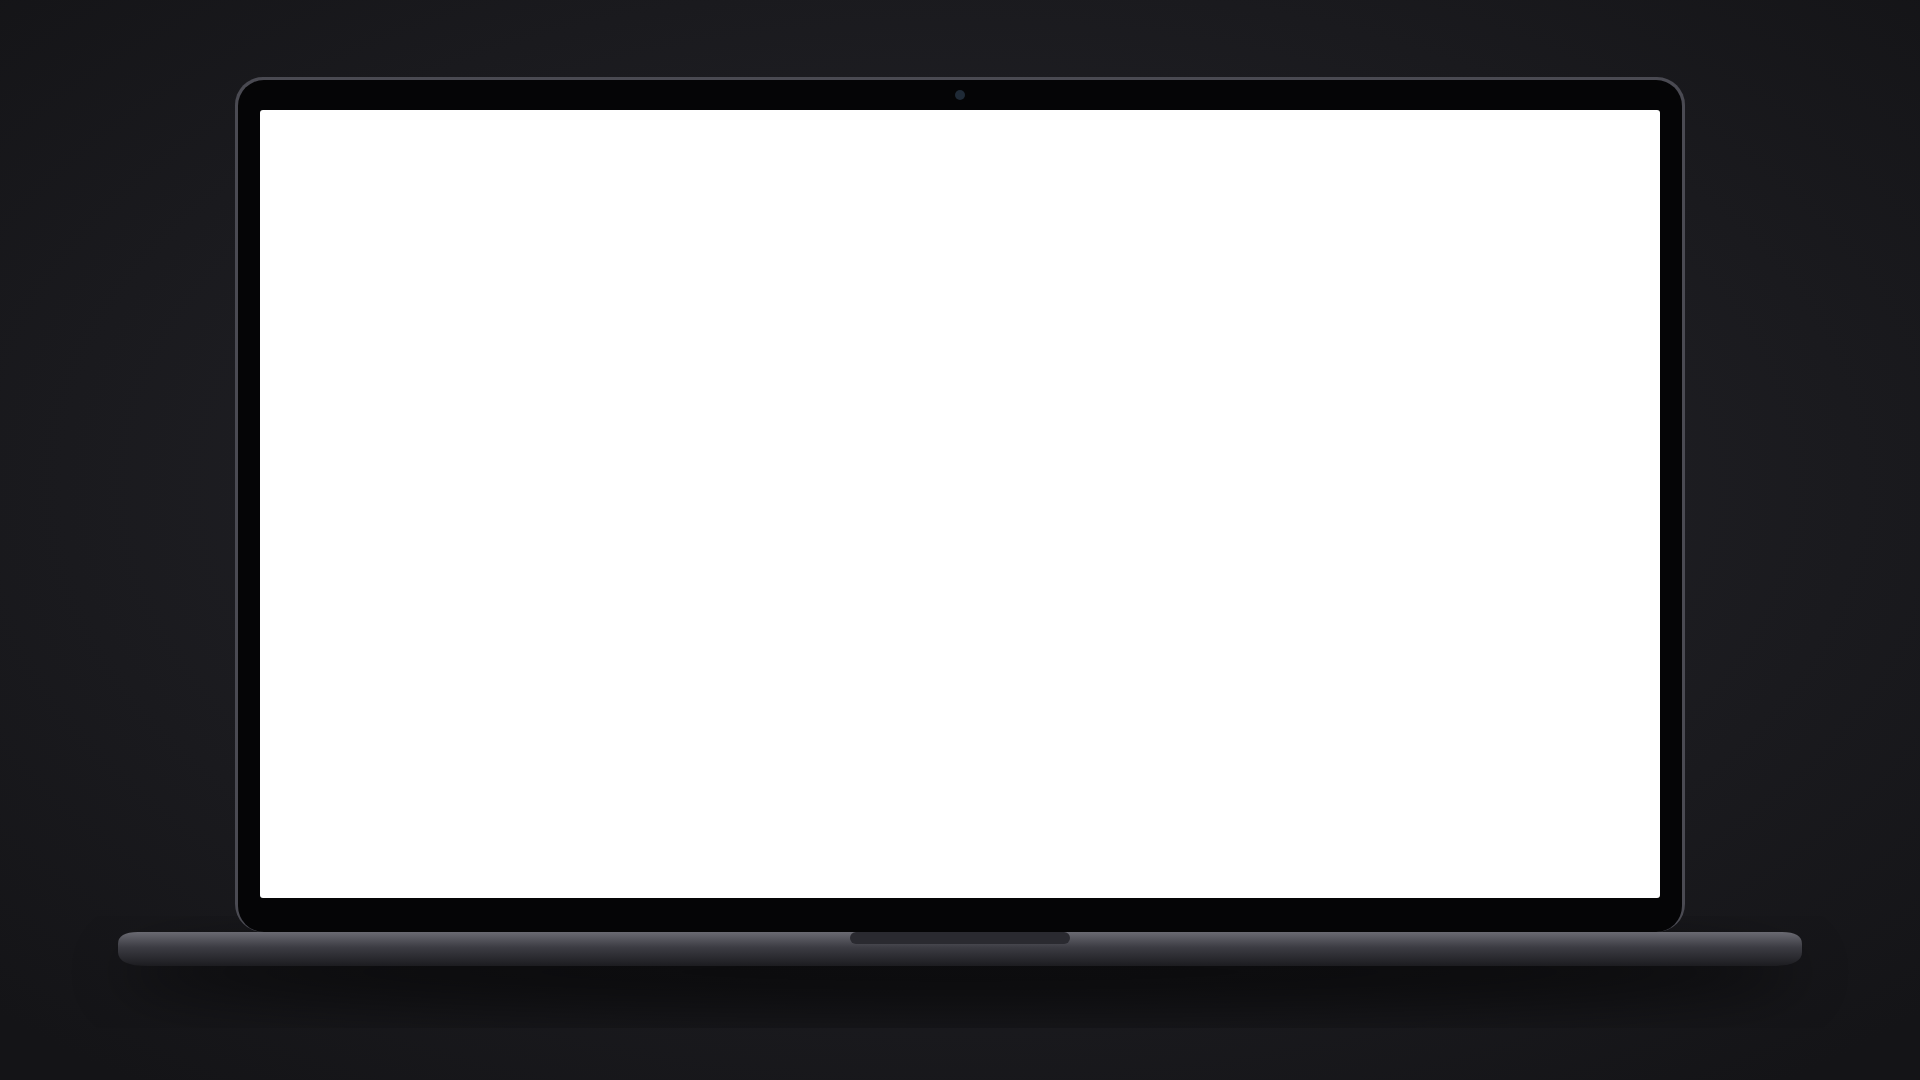
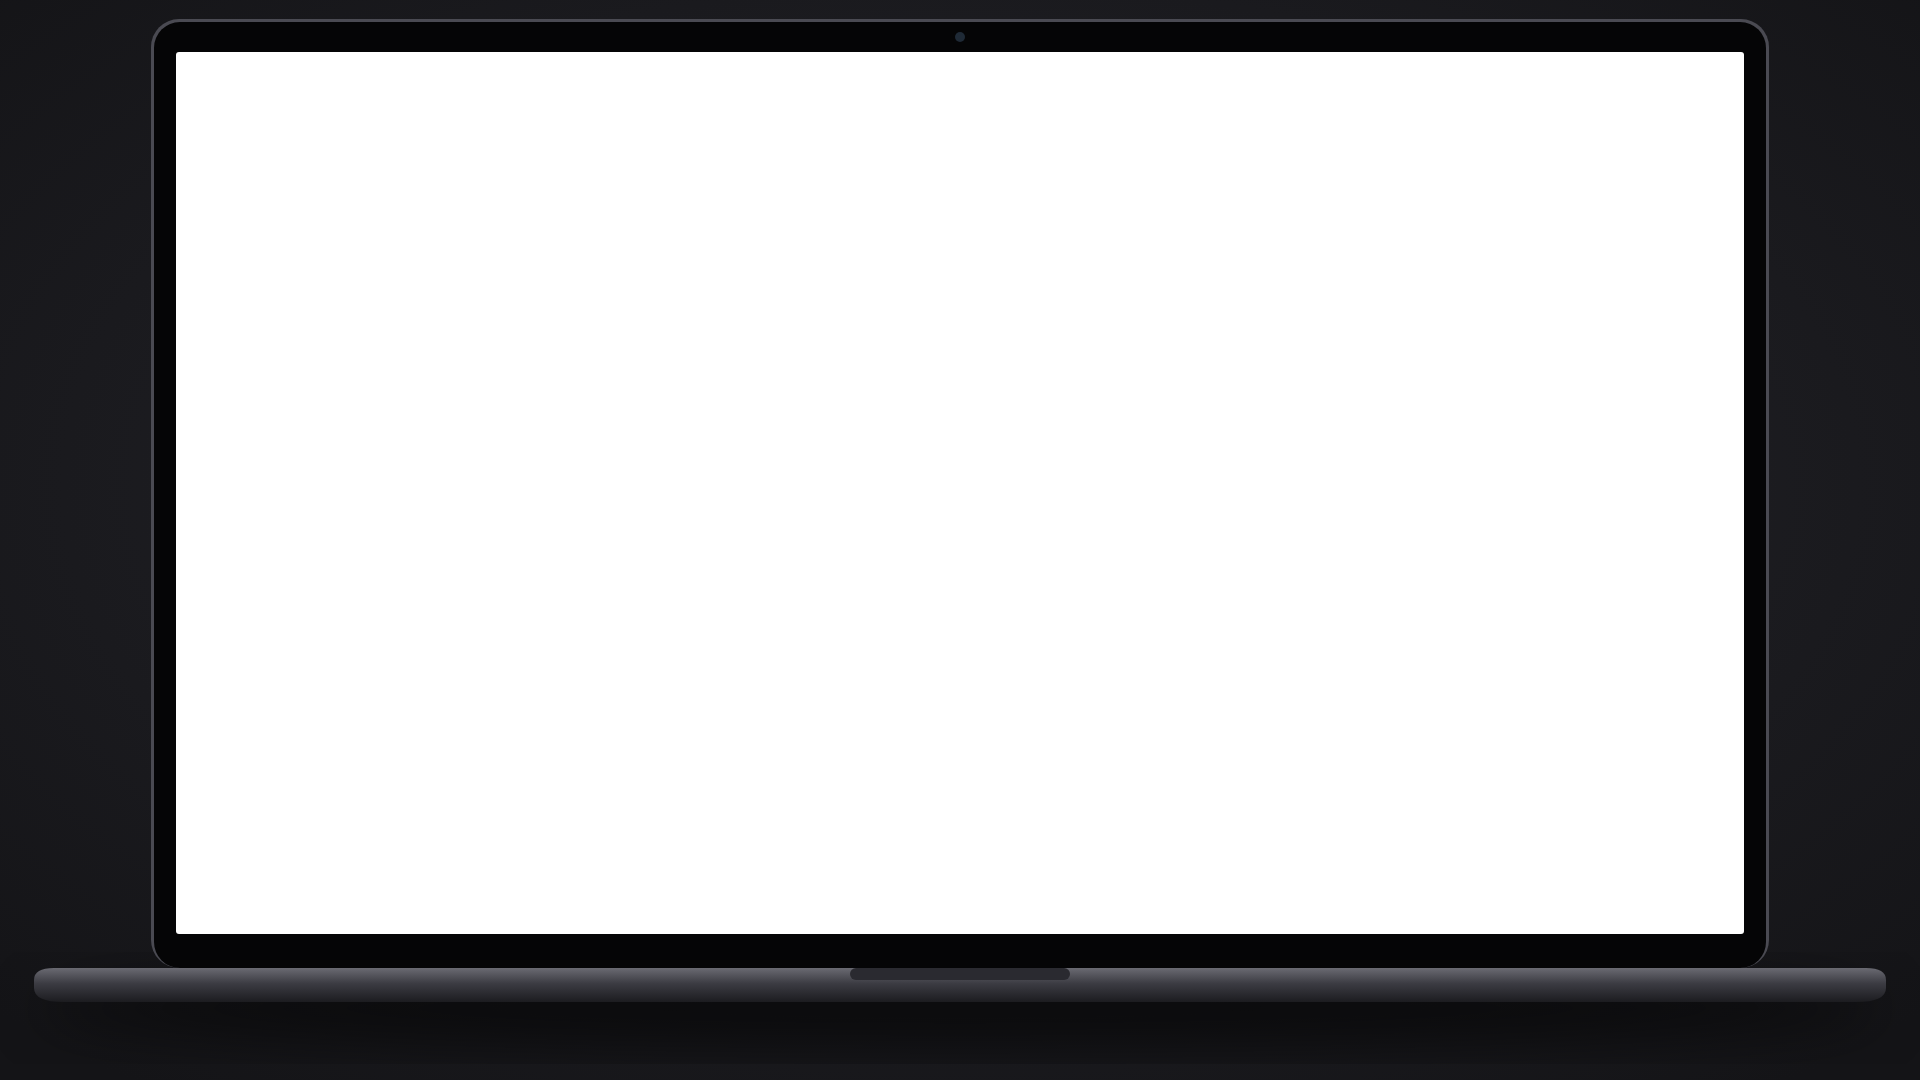
Promo laptop clips: film at 1280x720, a bigger laptop screen, cards to fit
The desktop clips were laid out at 1920 CSS px: the site's 1060px
column sat small in the middle, every word read as zoomed out, and the
title cards (sized for a phone) were a speck in the centre. They are
now laid out at 1280x720 and drawn at 1920x1080 (text 1.5x), the
laptop screen takes 82% of the frame instead of 73%, and title cards
scale with the page height. The phone clips are unchanged.

Adds promo-rebuild, which re-records given clips and publishes them
finished (device, cover intro, music) for swapping into their posts.

Claude-Session: https://claude.ai/code/session_01Brfdg9Zv1eBVJAMJR83GXX

Changed region(s): [[0.0, 0.0, 1.0, 0.9472]]

diff --git a/scripts/promo_capture.py b/scripts/promo_capture.py
@@ -17,6 +17,7 @@ Two shapes:
   wide  1280x720  -- X, Reddit, YouTube, an embed on the site itself.
                      The page's own .wrap is 1060px, so this leaves a
                      natural gutter rather than a stretched layout.
+                     Drawn at 1920x1080.
   tall   390x693  -- TikTok, Reels, Shorts. An iPhone's width, so this
                      records the real phone layout, tab bar and all,
                      drawn at 1080x1920 device pixels.
@@ -229,9 +230,12 @@ async () => {
 
 
 SHAPES = {
-    # 1920x1080 for YouTube and X; recorded at full size rather than
-    # upscaled, so text stays sharp.
-    "wide": {"width": 1920, "height": 1080},
+    # For YouTube and X: laid out at 1280x720, an ordinary laptop
+    # window, and drawn at 1920x1080. Laid out at 1920 CSS px the site's
+    # 1060px column sat small in the middle of a sea of margin and every
+    # word read as zoomed out; at 1280 the column fills the screen and
+    # the text is drawn 1.5x.
+    "wide": {"width": 1280, "height": 720},
     # Laid out at 390 CSS px wide -- an iPhone's own width, so the page
     # is exactly the layout a phone gets -- and drawn at 1080x1920 for
     # TikTok, Reels and Shorts. (It used to be laid out at 540px, which

diff --git a/scripts/promo_overlay.py b/scripts/promo_overlay.py
@@ -113,11 +113,13 @@ OVERLAY_JS = """
 
     const stage = document.createElement('div');
     stage.id = '__promo_stage';
-    // The title cards are sized for a 540px-wide page. Filmed at a
+    // The title cards are sized for a 540px-square area. Filmed at a
     // phone's 390px they scale down to match, so a headline that fitted
-    // still fits; everything else (tags, cursor) stays at CSS size and
-    // so reads larger on the narrower page.
-    stage.style.setProperty('--pk', Math.min(1, window.innerWidth / 540));
+    // still fits; on a 1280x720 laptop page they scale up with the
+    // height, so a card fills the screen instead of sitting small in the
+    // middle of it. Everything else (tags, cursor) stays at CSS size.
+    stage.style.setProperty('--pk',
+      Math.min(window.innerWidth / 540, window.innerHeight / 540));
     stage.innerHTML = `
       <div class="__pprog" id="__pprog"></div>
       <div class="__pring" id="__pring"></div>

diff --git a/scripts/promo_device.py b/scripts/promo_device.py
@@ -43,7 +43,9 @@ BACKDROP = "0x141417"
 # which left a one-pixel seam of backdrop under the status bar.)
 PHONE = {"canvas": (1080, 1920), "clip": (206, 250, 620, 1102), "frame": "phone.png",
          "top": 74, "bottom": 56, "ui": "phone-ui.png"}
-LAPTOP = {"canvas": (1920, 1080), "clip": (260, 110, 1400, 788), "frame": "laptop.png"}
+# The laptop has no app furniture over it (these go to YouTube as
+# ordinary videos), so its screen takes most of the frame.
+LAPTOP = {"canvas": (1920, 1080), "clip": (176, 52, 1568, 882), "frame": "laptop.png"}
 DEVICE = {"vertical": PHONE, "desktop": LAPTOP}
 EDGE_SRC = 10                    # first row under the progress sliver, in the 1080x1920 clip
 EDGE = round(EDGE_SRC * PHONE["clip"][3] / 1920)   # the same row once the clip is scaled onto the phone
